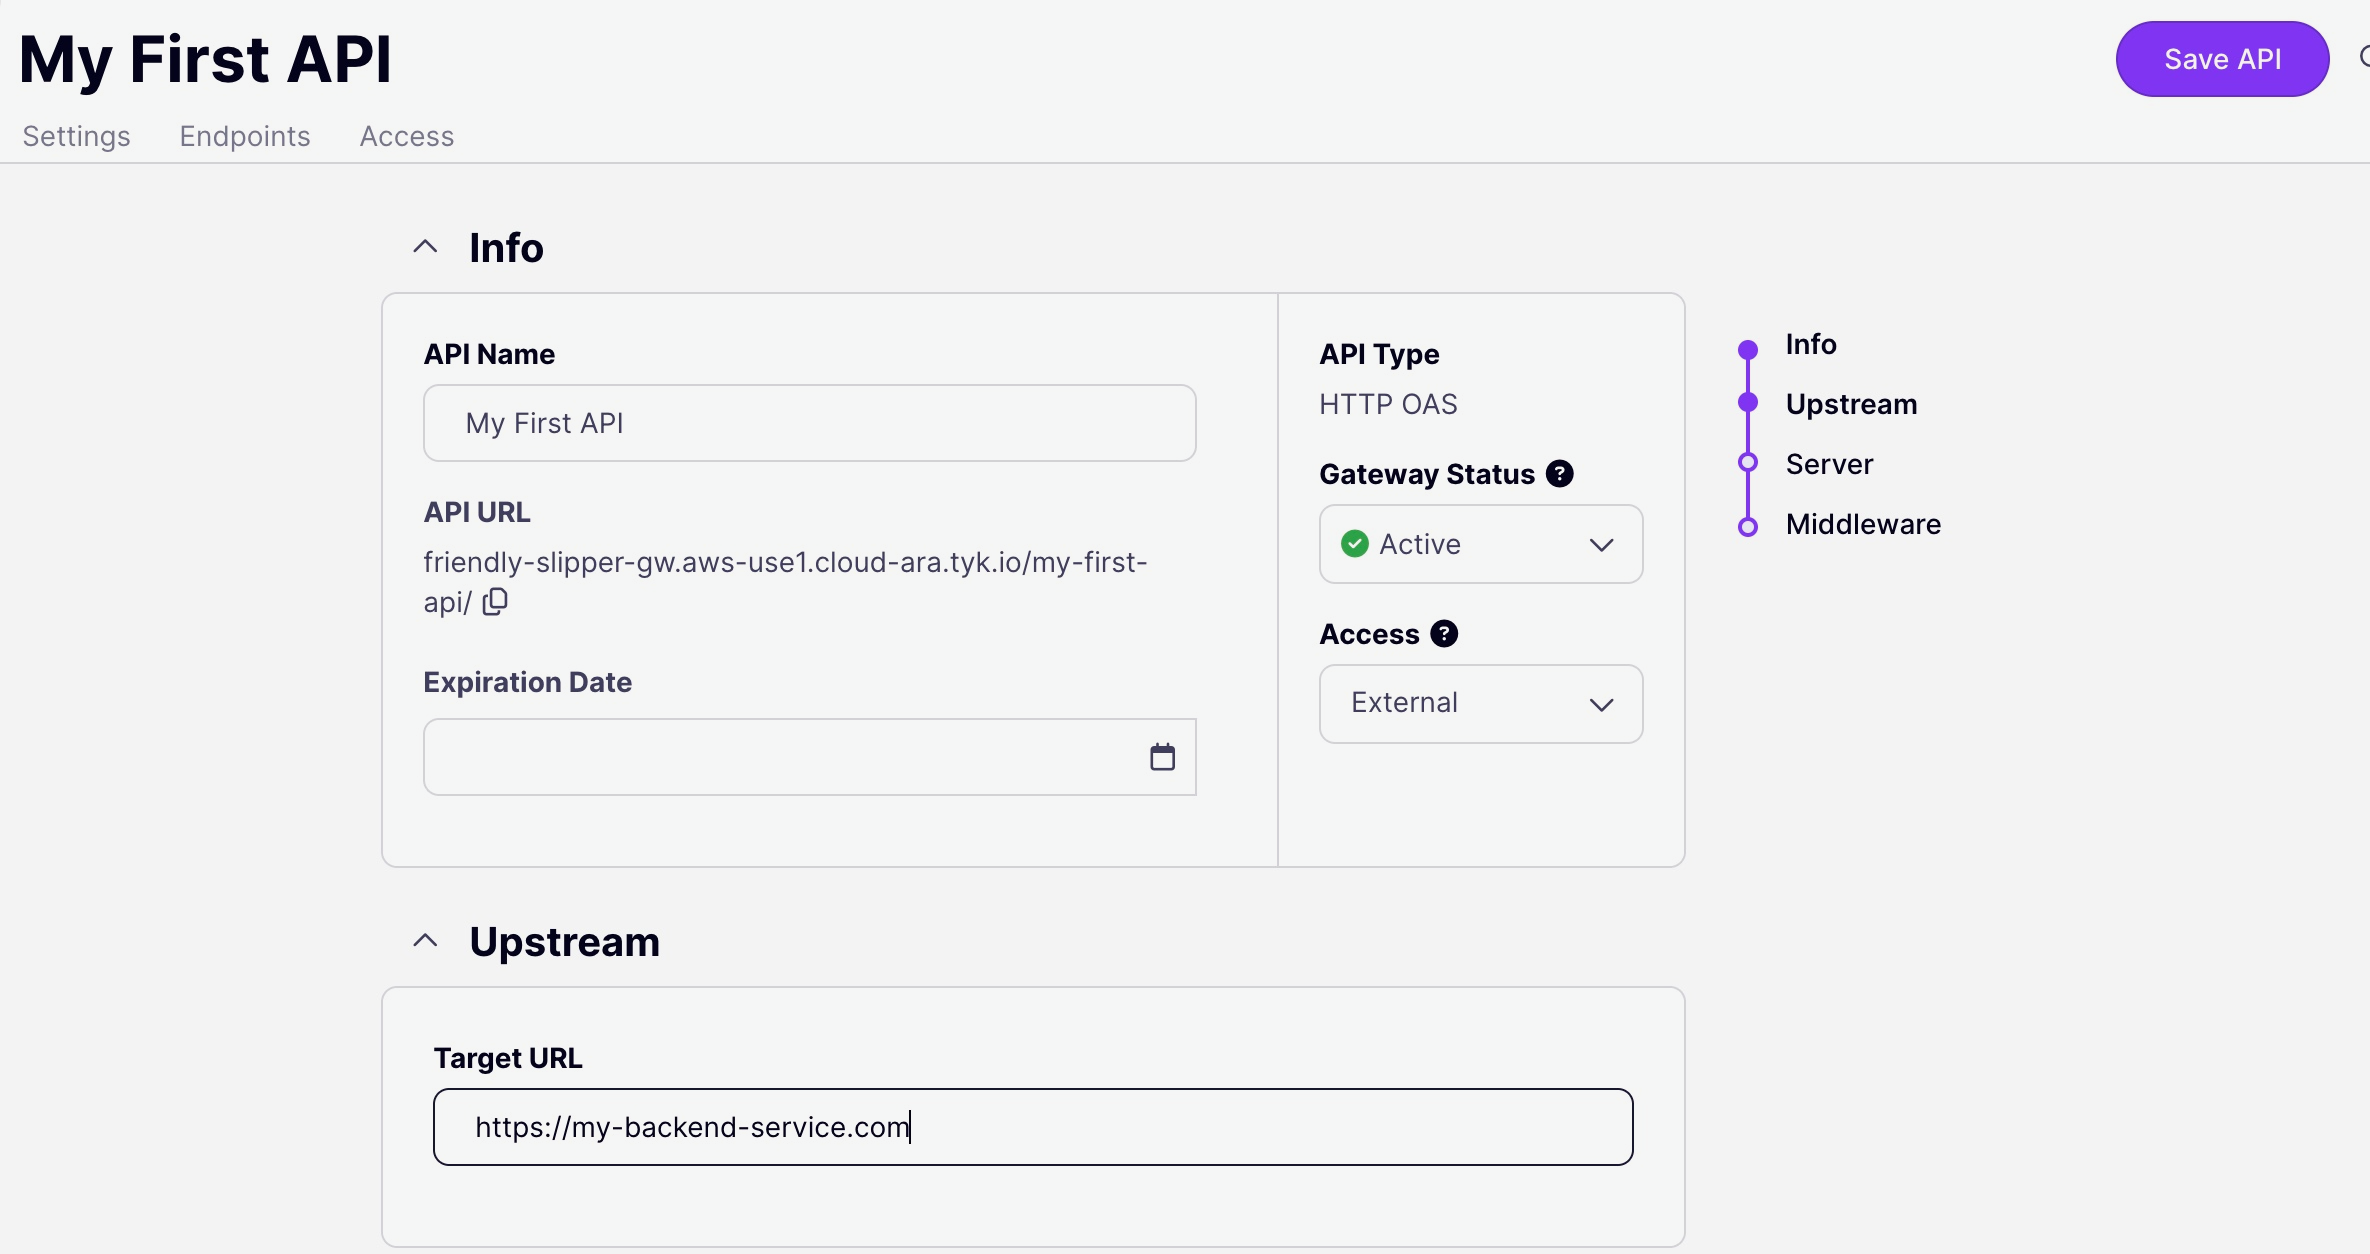
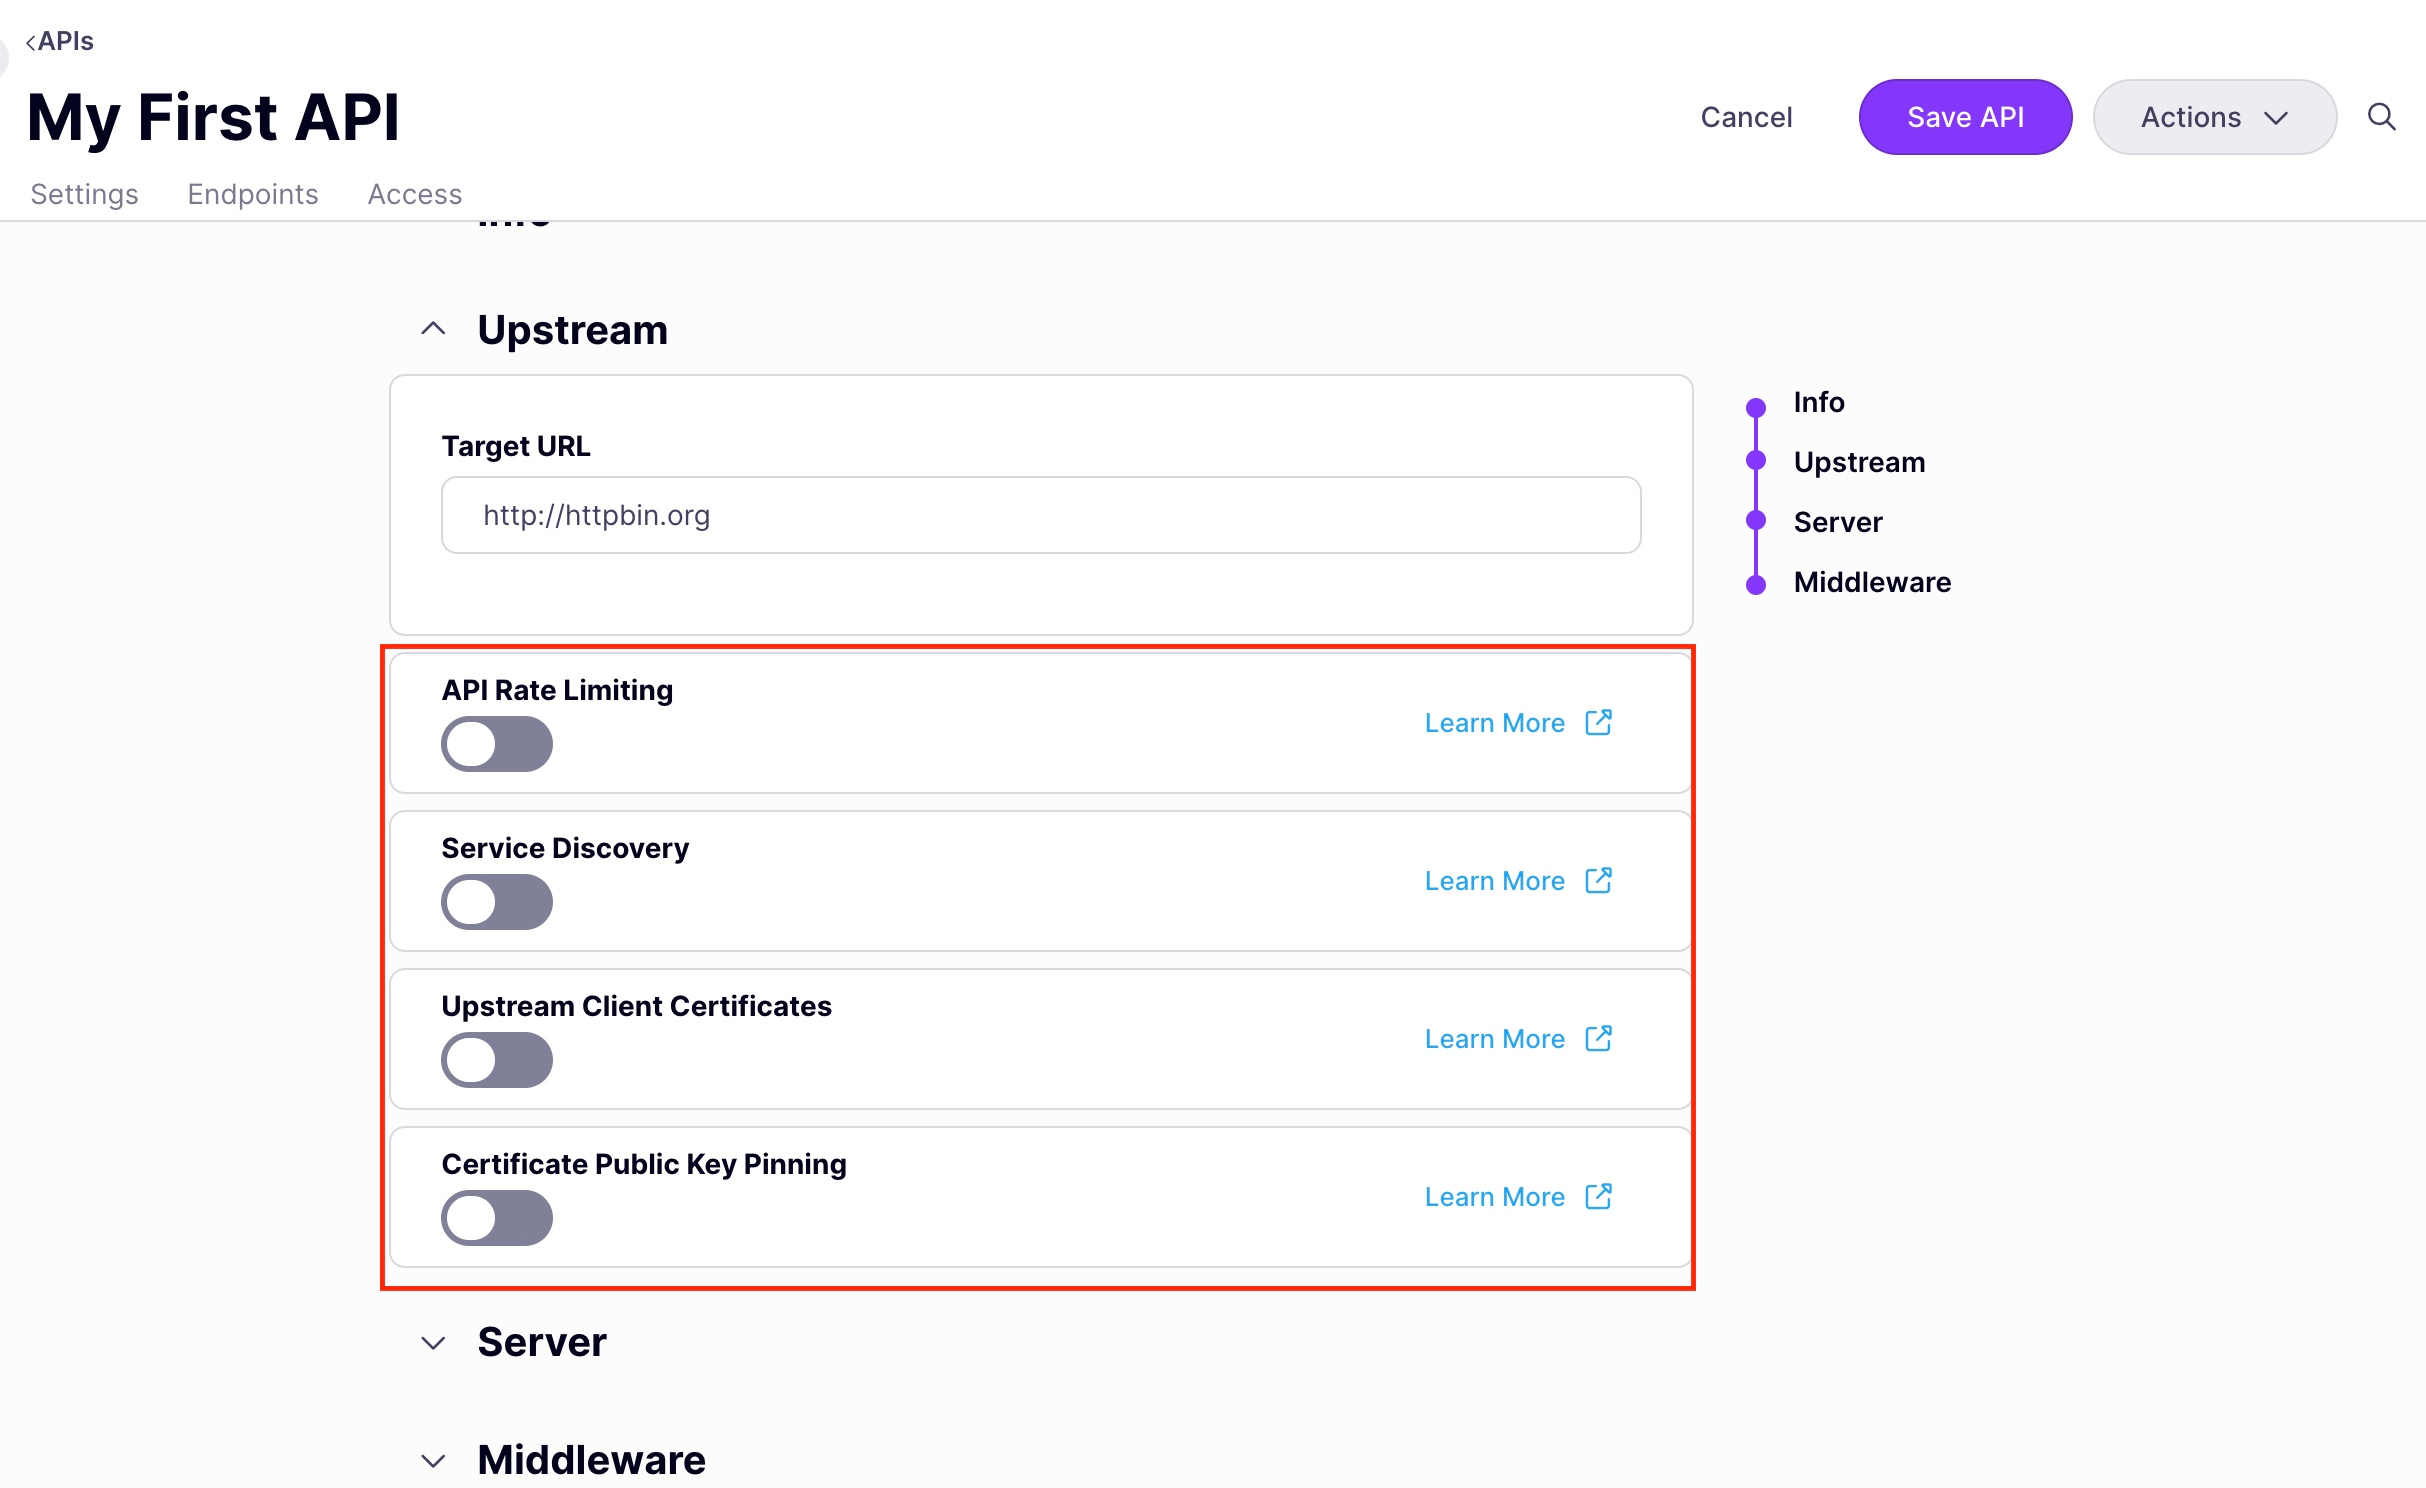
update link

diff --git a/tyk-docs/content/getting-started/configure-first-api.md b/tyk-docs/content/getting-started/configure-first-api.md
@@ -39,7 +39,9 @@ Start by creating a new API in Tyk Cloud:
 2. **Navigate to APIs** and click **Create New API**.
 3. **Configure API Details**:
    - **API Name**: Name your API (e.g., `My First API`).
-   - **Target URL**: Provide the URL of your backend service (e.g., `https://my-backend-service.com`).
+   - **API Type**: Choose from HTTP, TCP, GraphQL, UDG, or Federation, depending on your use case.
+   - **API Style**: Select OpenAPI for standardized HTTP APIs or Classic for flexible configurations and non-HTTP APIs.
+   - **Target URL**: Provide the URL of your backend service (e.g., `http://httpbin.org`).
    - **API Slug**: Define the path through which your API will be accessible (e.g., `/my-first-api/`).
 
   {{< img src="/img/getting-started/apis-create-new-api.png" alt="Create New API" >}}
@@ -47,16 +49,29 @@ Start by creating a new API in Tyk Cloud:
 <br>
 
 4. **Connect to Your Desired Gateway**
+  You may be prompted to choose between a Gateway and an Edge Gateway. 
+  - Edge Gateways generally provide low-latency, regionally distributed API processing, ideal for a global user base.
+  - Regular Gateways centralize API management, offering comprehensive API processing without additional edge optimizations.
+
   {{< img src="/img/getting-started/apis-connect-gateways.png" alt="Connect Gateways" >}}
 
 <br>
 
 5. **Configure Settings**
+
+  Configure your API settings:
+    - API Rate Limiting: Set limits on the number of requests (e.g., 100 requests per minute) to control usage and prevent abuse.
+    - Service Discovery: Enable dynamic backend discovery with tools like Consul or Kubernetes, ensuring traffic is directed to healthy instances.
+    - Upstream Client Certificates: Use client certificates for secure backend connections via mutual TLS (mTLS), adding an extra layer of security.
+    - Certificate Public Key Pinning: Pin specific public keys to validate certificate authenticity and prevent unauthorized access.
+
   {{< img src="/img/getting-started/apis-configure-settings.png" alt="Configure Settings" >}}
 
 <br>
 
 6. **Authentication**: Choose the desired authentication method (e.g., **API Key**).
+
+    {{< img src="/img/getting-started/apis-add-authentication.png" alt="Add Authentication" >}
 
 Save your API configuration once complete.
 
@@ -79,7 +94,7 @@ The Tyk Dashboard provides the simplest way to generate a new API key. Follow th
 
 3. **Add a Policy or API to Your Key**:
    - You can either add your key to an existing **Policy** or assign it to an individual **API**.
-   - For this guide, we will assign the key to an API. You can:
+   - For this guide, we will assign the key to the "My First API" which we created in the previous step. You can:
      - Scroll through your **API Name list**,
      - Use the **Search field**,
      - Or **Group by Authentication Type** or **Category** to filter APIs.
@@ -93,14 +108,35 @@ The Tyk Dashboard provides the simplest way to generate a new API key. Follow th
    - **Metadata**: Add metadata such as user IDs, which can be used by middleware components.
 
 5. **Click "CREATE"**:
-   - Once the key is created, a **Key successfully generated** pop-up will be displayed showing your key. **Copy the key** to your clipboard and save it for future reference as it will not be shown again.
-
-   {{< img src="/img/getting-started/apis-create-key.png" alt="APIs Create Key" >}}
-<br>
-   - And that should result in a successfully generated key!
+   - Once the key is created, a **Key successfully generated** pop-up will be displayed showing your key. **Copy the key** to your clipboard and save it for future reference as it will not be shown again. And that should result in a successfully generated key!
 
    {{< img src="/img/getting-started/apis-keys-success.png" alt="Key Success" >}}
   
+
+  {{< note success >}}
+  **Note**  
+
+  When creating a key in Tyk, you should copy the key ID. This is the identifier you’ll need for referencing the key in your API requests or configurations. The hash is generally used internally by Tyk and is not required for most user-facing tasks.
+
+  {{< /note >}}
+  
+
+
+## Test Your API
+
+After configuring and deploying your API, it’s essential to test it to ensure it performs as expected. Follow these steps to verify your API setup:
+
+1. **Retrieve Your API Key**:
+   - Copy the **API Key ID** from the previous step as you'll need it to authenticate requests to your API.
+
+2. **Make a Test Request**:
+   - Use a tool like [Postman](https://www.postman.com/) or `curl` to send a request to your API endpoint.
+   - Example request using `curl`:
+     ```bash
+     curl -H "Authorization: {YOUR_API_KEY_ID}" https://{YOUR_TYK_GATEWAY_URL}/my-first-api/
+     ```
+   - Replace `{YOUR_API_KEY_ID}` with the actual key ID and `{YOUR_TYK_GATEWAY_URL}` with your gateway's URL.
+
 
 ## Monitor Traffic and Analyze API Performance
 
@@ -113,30 +149,6 @@ With your API live, monitor its traffic and analyze performance:
 3. **Analyze Data**: Use traffic trends to identify performance issues or optimize API behavior.
 
 {{< img src="/img/getting-started/apis-analytics.png" alt="APIs Analytics" >}}
-
-
-
-#### Example Traffic Analytics Response
-
-```json
-{
-  "requests": 1500,
-  "errors": 5,
-  "latency": {
-    "average": 120,
-    "p95": 180
-  }
-}
-```
-
-- **Requests**: The total number of API requests made within the monitored period.
-
-- **Errors**: The number of failed requests, indicating issues or errors encountered during API calls.
-
-- **Latency**:
-  - **Average**: The average time (in milliseconds) it takes for the API to respond to a request.
-  - **95th Percentile (p95)**: The time within which 95% of the requests are responded to, providing insight into the upper range of response times.
-
 
 
 ### View Log Data

diff --git a/tyk-docs/content/getting-started/using-tyk-dashboard.md b/tyk-docs/content/getting-started/using-tyk-dashboard.md
@@ -39,7 +39,7 @@ Tyk is organized into a few key categories:
 {{< img src="/img/getting-started/overview-options.png" alt="Overview options" >}}
 
 From the overview options, you can start adding APIs immediately. 
-If you are new here, we suggest that you start with an example API and see how our pre-configured APIs are setup- we have examples for GraphQL, OAS, and UDG (Universal Data Graph) APIs. If you have a specific API that you that you have already setup, you can import it using an OpenAPI document, a Tyk API document, or through a WSDL/XML file. 
+If you are new here, we suggest that you start with an example API and see how our pre-configured APIs are setup- we have examples for GraphQL, Tyk OAS, and UDG (Universal Data Graph) APIs. If you have a specific API that you that you have already setup, you can import it using an OpenAPI document, a Tyk API document, or through a WSDL/XML file. 
 Otherwise, you can design an API from scratch or a template if you have configured a Tyk template previously.
 
 
@@ -52,7 +52,7 @@ Otherwise, you can design an API from scratch or a template if you have configur
 
 * **API Templates**: API Templates allow you to create APIs with preconfigured settings quickly. You can set these up manually or save them from an API which you've already created. You can learn more about API Templates [here](/product-stack/tyk-dashboard/advanced-configurations/templates/template-overview/).
 
-* **Examples**: In Examples, you will find a few sample projects we put together to help you in your journey. We suggest you start with the OAS APIs and move on to GraphQL and UDG APIs to supplement learning how to setup your API.
+* **Examples**: In Examples, you will find a few sample projects we put together to help you in your journey. We suggest you start with the Tyk OAS APIs and move on to GraphQL and UDG APIs to supplement learning how to setup your API.
 
 * **Data Graphs**: Universal Data Graphs (UDGs) are a way for you to combine APIs into one usable interface. Using GraphQL, you can access multiple APIs in a single query. In this tab, you can configure your UDGs. You can learn more about Data Graph concepts and how to use them in Tyk, [here](/universal-data-graph/).
 
